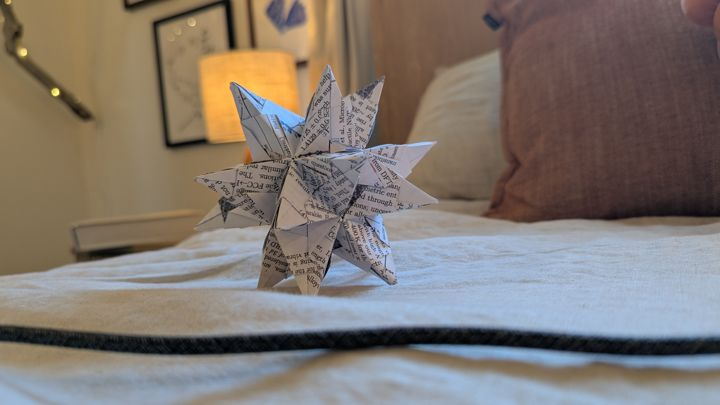
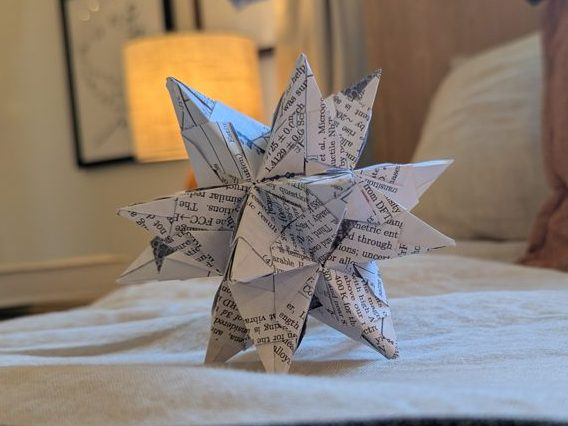
Breadcrumbs on subpages; origami gallery: tighter 2026 star crop + 2022 coffee-table photo
tools/crumbs.py writes a Home / Section / Page trail at the top of each subpage header
(plus BreadcrumbList JSON-LD) and drops the old back-link. Idempotent; a new page is
one row in PAGES. The trail is a div, not a <nav>, because site.css styles every
<nav> as the floating icon rail.

diff --git a/art.html b/art.html
@@ -16,8 +16,8 @@
 <link rel="icon" href="favicon.ico" sizes="any">
 <link rel="icon" href="favicon-32.png" type="image/png">
 <link rel="apple-touch-icon" href="apple-touch-icon.png">
-<link rel="stylesheet" href="assets/css/site.css?v=20261118142144">
-</head>
+<link rel="stylesheet" href="assets/css/site.css?v=20261118204126">
+<!-- crumbs-ld --><script type="application/ld+json">{"@context": "https://schema.org", "@type": "BreadcrumbList", "itemListElement": [{"@type": "ListItem", "position": 1, "name": "Home", "item": "https://kyle-hunady.github.io/"}, {"@type": "ListItem", "position": 2, "name": "Projects", "item": "https://kyle-hunady.github.io/index.html#projects"}, {"@type": "ListItem", "position": 3, "name": "Art and making", "item": "https://kyle-hunady.github.io/art.html"}]}</script><!-- /crumbs-ld --></head>
 <body>
 <a class="skip" href="#main">Skip to content</a>
 <svg width="0" height="0" style="position:absolute" aria-hidden="true">
@@ -49,6 +49,7 @@
 
 <header class="page__head">
   <div class="container header__container">
+    <!-- crumbs --><div class="crumbs" role="navigation" aria-label="Breadcrumb"><ol><li><a href="index.html">Home</a></li><li><a href="index.html#projects">Projects</a></li><li aria-current="page">Art and making</li></ol></div><!-- /crumbs -->
     <h1>Art and making</h1>
     <p class="header__line">A few things I’ve made, from lamps to cyanotype prints. Select a photo to enlarge it.</p>
   </div>
@@ -56,7 +57,6 @@
 
 <main id="main" class="page">
   <div class="container">
-    <a href="index.html#projects" class="back-link"><svg><use href="#i-arrow-left"/></svg>All projects</a>
 <h2 class="ilove" id="lamps">I LOVE LAMPS</h2>
 <div class="gallery gallery--wonky">
   <figure><button type="button" data-full="assets/img/gallery/art/resin-lamp.jpg" data-caption="2021"><img src="assets/img/gallery/art/resin-lamp-t.jpg" alt="Fairy lights glowing inside a clear resin and wood lamp." width="720" height="540" loading="lazy" decoding="async"></button><figcaption><span class="placard">2021</span></figcaption></figure>
@@ -87,7 +87,8 @@
 </div>
 <h2 class="ilove" id="origami">I LOVE MODULAR ORIGAMI</h2>
 <div class="gallery gallery--wonky">
-  <figure><button type="button" data-full="assets/img/gallery/art/star-on-bed.jpg" data-caption="2026"><img src="assets/img/gallery/art/star-on-bed-t.jpg" alt="A 20-point origami star made from sheets of a printed draft." width="720" height="405" loading="lazy" decoding="async"></button><figcaption><span class="placard">2026</span></figcaption></figure>
+  <figure><button type="button" data-full="assets/img/gallery/art/star-on-bed.jpg?v=2" data-caption="2026"><img src="assets/img/gallery/art/star-on-bed-t.jpg?v=2" alt="A 20-point origami star made from sheets of a printed draft." width="568" height="426" loading="lazy" decoding="async"></button><figcaption><span class="placard">2026</span></figcaption></figure>
+  <figure><button type="button" data-full="assets/img/gallery/art/origami-table.jpg" data-caption="2022"><img src="assets/img/gallery/art/origami-table-t.jpg" alt="Three modular origami pieces on a glass coffee table: a large brown and white star, a gold faceted polyhedron and a small gold star of interlocking frames." width="720" height="540" loading="lazy" decoding="async"></button><figcaption><span class="placard">2022</span></figcaption></figure>
   <figure><button type="button" data-full="assets/img/gallery/art/kusudama.jpg" data-caption="2019"><img src="assets/img/gallery/art/kusudama-t.jpg" alt="A blue, orange and red modular origami ball with curled petals." width="720" height="540" loading="lazy" decoding="async"></button><figcaption><span class="placard">2019</span></figcaption></figure>
   <figure><button type="button" data-full="assets/img/gallery/art/paper-stars.jpg" data-caption="2017"><img src="assets/img/gallery/art/paper-stars-t.jpg" alt="Several modular origami stars on a teal background." width="540" height="720" loading="lazy" decoding="async"></button><figcaption><span class="placard">2017</span></figcaption></figure>
 </div>

diff --git a/montecarlo.html b/montecarlo.html
@@ -18,9 +18,9 @@
 <link rel="apple-touch-icon" href="apple-touch-icon.png">
 <link rel="preconnect" href="https://fonts.googleapis.com">
 <link rel="preconnect" href="https://fonts.gstatic.com" crossorigin>
-<link rel="stylesheet" href="assets/css/site.css?v=20261118141140">
+<link rel="stylesheet" href="assets/css/site.css?v=20261118204126">
 <meta name="report-waive" content="M1: section I animates the spectrum building up on a timer-driven canvas, which the audit does not detect, and the photon paths are 3-D rays the reader can turn; S1: section II draws its generic head with the rays at both knob values before any number, as a side view because the head is generic, and the real heads are drawn in 3-D with their collimators and rays in sections III and V; H1: a public page on the personal site, not a research report, so it is linked from the site's project card">
-</head>
+<!-- crumbs-ld --><script type="application/ld+json">{"@context": "https://schema.org", "@type": "BreadcrumbList", "itemListElement": [{"@type": "ListItem", "position": 1, "name": "Home", "item": "https://kyle-hunady.github.io/"}, {"@type": "ListItem", "position": 2, "name": "Projects", "item": "https://kyle-hunady.github.io/index.html#projects"}, {"@type": "ListItem", "position": 3, "name": "Spectrometer modeling", "item": "https://kyle-hunady.github.io/montecarlo.html"}]}</script><!-- /crumbs-ld --></head>
 <body>
 <a class="skip" href="#main">Skip to content</a>
 <svg width="0" height="0" style="position:absolute" aria-hidden="true">
@@ -52,6 +52,7 @@
 
 <header class="page__head">
   <div class="container header__container">
+    <!-- crumbs --><div class="crumbs" role="navigation" aria-label="Breadcrumb"><ol><li><a href="index.html">Home</a></li><li><a href="index.html#projects">Projects</a></li><li aria-current="page">Spectrometer modeling</li></ol></div><!-- /crumbs -->
     <p class="header__eyebrow">Instrument modeling · Caltech and JPL</p>
     <h1>Modeling a Mössbauer spectrometer</h1>
     <p class="header__line">We’re building a small spectrometer to identify iron minerals on other planets. I used a Monte Carlo model to find out how the layout of the source, collimator and detector affects how fast the instrument can measure a rock and how sharp its spectrum will be.</p>
@@ -60,7 +61,6 @@
 
 <main id="main" class="page">
   <div class="container">
-    <a href="index.html#projects" class="back-link"><svg><use href="#i-arrow-left"/></svg>All projects</a>
 
     <div class="callout abstract"><div>I wrote the photon simulation for a backscatter Mössbauer spectrometer that JPL and Caltech developed through NASA’s PICASSO program (Planetary Instrument Concepts for the Advancement of Solar System Observations). The model traces photons individually through each design, recording about 30,000 that reach the detector. The workflow uses published mineral spectra and dimensions I measured from a photo of the instrument. The angles of the detected photons tell us how much each design broadens the lines in a spectrum. The four Mars spectra come from NASA’s archive. The other spectra shown here are simulated.</div></div>
 

diff --git a/entropy.html b/entropy.html
@@ -18,8 +18,8 @@
 <link rel="apple-touch-icon" href="apple-touch-icon.png">
 <link rel="preconnect" href="https://fonts.googleapis.com">
 <link rel="preconnect" href="https://fonts.gstatic.com" crossorigin>
-<link rel="stylesheet" href="assets/css/site.css?v=20261118162051">
-</head>
+<link rel="stylesheet" href="assets/css/site.css?v=20261118204126">
+<!-- crumbs-ld --><script type="application/ld+json">{"@context": "https://schema.org", "@type": "BreadcrumbList", "itemListElement": [{"@type": "ListItem", "position": 1, "name": "Home", "item": "https://kyle-hunady.github.io/"}, {"@type": "ListItem", "position": 2, "name": "Research", "item": "https://kyle-hunady.github.io/index.html#research"}, {"@type": "ListItem", "position": 3, "name": "Alloy entropy", "item": "https://kyle-hunady.github.io/entropy.html"}]}</script><!-- /crumbs-ld --></head>
 <body>
 <a class="skip" href="#main">Skip to content</a>
 <svg width="0" height="0" style="position:absolute" aria-hidden="true">
@@ -51,6 +51,7 @@
 
 <header class="page__head">
   <div class="container header__container">
+    <!-- crumbs --><div class="crumbs" role="navigation" aria-label="Breadcrumb"><ol><li><a href="index.html">Home</a></li><li><a href="index.html#research">Research</a></li><li aria-current="page">Alloy entropy</li></ol></div><!-- /crumbs -->
     <p class="header__eyebrow">Alloy thermodynamics · Caltech</p>
     <h1>The entropy of high-entropy alloys</h1>
     <p class="header__line">I measured the heat capacity of eight alloys down to 2 K to find out where their entropy comes from and how aluminum changes it.</p>
@@ -59,7 +60,6 @@
 
 <main id="main" class="page">
   <div class="container">
-    <a href="index.html#research" class="back-link"><svg><use href="#i-arrow-left"/></svg>Research</a>
 
     <p class="lede">High-entropy alloys get their name from the many ways different elements can share a crystal lattice. Does that mixing explain how stable the alloys are? I measured the entropy from heat capacity and used diffraction and microscopy to estimate how much came from mixing. In these alloys, atomic vibrations accounted for most of the entropy, and adding aluminum lowered the total.</p>
     <p>I studied three alloy families based on CoCrFeNi, CoCrFeMnNi and NbTa<sub>0.5</sub>TiZr, with and without added aluminum. I published the study with Ihab Elmasri and Brent Fultz in <a href="https://doi.org/10.1016/j.actamat.2026.122808" target="_blank" rel="noreferrer"><i>Acta Materialia</i> (2026)</a>.</p>

diff --git a/battery.html b/battery.html
@@ -16,7 +16,7 @@
 <link rel="icon" href="favicon.ico" sizes="any">
 <link rel="icon" href="favicon-32.png" type="image/png">
 <link rel="apple-touch-icon" href="apple-touch-icon.png">
-<link rel="stylesheet" href="assets/css/site.css?v=20261118141140">
+<link rel="stylesheet" href="assets/css/site.css?v=20261118204126">
 <style>
   .fig + p, p + .fig, .fig + h3 { margin-top: 1.4rem; }
   .fig--light img { border-radius: .3rem; }
@@ -28,7 +28,7 @@
   .elements b { display: block; color: var(--accent); font-weight: 500; margin-bottom: .2rem; }
   @media (max-width: 640px) { .elements { grid-template-columns: 1fr; } }
 </style>
-</head>
+<!-- crumbs-ld --><script type="application/ld+json">{"@context": "https://schema.org", "@type": "BreadcrumbList", "itemListElement": [{"@type": "ListItem", "position": 1, "name": "Home", "item": "https://kyle-hunady.github.io/"}, {"@type": "ListItem", "position": 2, "name": "Projects", "item": "https://kyle-hunady.github.io/index.html#projects"}, {"@type": "ListItem", "position": 3, "name": "Battery materials", "item": "https://kyle-hunady.github.io/battery.html"}]}</script><!-- /crumbs-ld --></head>
 <body>
 <a class="skip" href="#main">Skip to content</a>
 <svg width="0" height="0" style="position:absolute" aria-hidden="true">
@@ -52,6 +52,7 @@
 
 <header class="page__head">
   <div class="container header__container">
+    <!-- crumbs --><div class="crumbs" role="navigation" aria-label="Breadcrumb"><ol><li><a href="index.html">Home</a></li><li><a href="index.html#projects">Projects</a></li><li aria-current="page">Battery materials</li></ol></div><!-- /crumbs -->
     <p class="header__eyebrow">Battery materials · Georgia Tech, 2019 to 2022</p>
     <h1>Solid electrolytes and Li-ion cathodes</h1>
     <p class="header__line">As an undergraduate in Gleb Yushin’s lab, I made a solid electrolyte from two inexpensive salts and tested whether foaming a thick cathode could improve its performance at high discharge rates.</p>
@@ -60,7 +61,6 @@
 
 <main id="main" class="page">
   <div class="container">
-    <a href="index.html#projects" class="back-link"><svg><use href="#i-arrow-left"/></svg>All projects</a>
 
     <ol class="parts">
       <li><a href="#sse"><b>I. Solid electrolyte</b><span>Making Li<sub>2</sub>OHCl from two salts</span></a></li>

diff --git a/automation.html b/automation.html
@@ -16,8 +16,8 @@
 <link rel="icon" href="favicon.ico" sizes="any">
 <link rel="icon" href="favicon-32.png" type="image/png">
 <link rel="apple-touch-icon" href="apple-touch-icon.png">
-<link rel="stylesheet" href="assets/css/site.css?v=20261118141140">
-</head>
+<link rel="stylesheet" href="assets/css/site.css?v=20261118204126">
+<!-- crumbs-ld --><script type="application/ld+json">{"@context": "https://schema.org", "@type": "BreadcrumbList", "itemListElement": [{"@type": "ListItem", "position": 1, "name": "Home", "item": "https://kyle-hunady.github.io/"}, {"@type": "ListItem", "position": 2, "name": "Projects", "item": "https://kyle-hunady.github.io/index.html#projects"}, {"@type": "ListItem", "position": 3, "name": "Literature workflow", "item": "https://kyle-hunady.github.io/automation.html"}]}</script><!-- /crumbs-ld --></head>
 <body>
 <a class="skip" href="#main">Skip to content</a>
 <svg width="0" height="0" style="position:absolute" aria-hidden="true">
@@ -49,6 +49,7 @@
 
 <header class="page__head">
   <div class="container header__container">
+    <!-- crumbs --><div class="crumbs" role="navigation" aria-label="Breadcrumb"><ol><li><a href="index.html">Home</a></li><li><a href="index.html#projects">Projects</a></li><li aria-current="page">Literature workflow</li></ol></div><!-- /crumbs -->
     <p class="header__eyebrow">Research tools</p>
     <h1>A literature workflow with Claude Code</h1>
     <p class="header__line">I tell Claude what I'm looking for. It searches for papers, downloads the ones it can access, and drafts a note on what I can use from each.</p>
@@ -57,7 +58,6 @@
 
 <main id="main" class="page">
   <div class="container">
-    <a href="index.html#projects" class="back-link"><svg><use href="#i-arrow-left"/></svg>All projects</a>
 
     <p>I use a custom <code>/lit-fetch</code> command in Claude Code. Scripts on my computer download and check the papers, and I keep one library across my projects.</p>
     <p>I tried this on a question from my <a href="sinrg.html">spectrometer</a> work. The source in a Mössbauer spectrometer has to move at a precisely controlled velocity. Our group drives it with a piezo stack (Guzman et al., 2023). I wanted to see which methods from atomic force microscopy and other fields might help us control that motion.</p>

diff --git a/bc.html b/bc.html
@@ -16,8 +16,8 @@
 <link rel="icon" href="favicon.ico" sizes="any">
 <link rel="icon" href="favicon-32.png" type="image/png">
 <link rel="apple-touch-icon" href="apple-touch-icon.png">
-<link rel="stylesheet" href="assets/css/site.css?v=20261118141140">
-</head>
+<link rel="stylesheet" href="assets/css/site.css?v=20261118204126">
+<!-- crumbs-ld --><script type="application/ld+json">{"@context": "https://schema.org", "@type": "BreadcrumbList", "itemListElement": [{"@type": "ListItem", "position": 1, "name": "Home", "item": "https://kyle-hunady.github.io/"}, {"@type": "ListItem", "position": 2, "name": "Projects", "item": "https://kyle-hunady.github.io/index.html#projects"}, {"@type": "ListItem", "position": 3, "name": "Early coding", "item": "https://kyle-hunady.github.io/bc.html"}]}</script><!-- /crumbs-ld --></head>
 <body>
 <a class="skip" href="#main">Skip to content</a>
 <svg width="0" height="0" style="position:absolute" aria-hidden="true">
@@ -49,6 +49,7 @@
 
 <header class="page__head">
   <div class="container header__container">
+    <!-- crumbs --><div class="crumbs" role="navigation" aria-label="Breadcrumb"><ol><li><a href="index.html">Home</a></li><li><a href="index.html#projects">Projects</a></li><li aria-current="page">Early coding</li></ol></div><!-- /crumbs -->
     <p class="header__eyebrow">2020–2022</p>
     <h1>Early coding projects</h1>
     <p class="header__line">A few things I built for drawing, taking photos and playing Minecraft. My newer projects include <a href="automation.html">tools for keeping up with research papers</a>.</p>
@@ -57,7 +58,6 @@
 
 <main id="main" class="page">
   <div class="container">
-    <a href="index.html#projects" class="back-link"><svg><use href="#i-arrow-left"/></svg>All projects</a>
     <figure class="fig" style="max-width:20rem;margin:0 0 1.2rem">
       <img src="assets/img/proj-bc.png" alt="An Arduino loop drawn with a mouse in Microsoft Paint" width="1038" height="649" loading="lazy" style="border-radius:.4rem">
       <figcaption>An Arduino loop I drew with a mouse in Microsoft Paint.</figcaption>

diff --git a/latte.html b/latte.html
@@ -14,8 +14,8 @@
 <link rel="icon" href="favicon.ico" sizes="any">
 <link rel="icon" href="favicon-32.png" type="image/png">
 <link rel="apple-touch-icon" href="apple-touch-icon.png">
-<link rel="stylesheet" href="assets/css/site.css?v=20261118142144">
-</head>
+<link rel="stylesheet" href="assets/css/site.css?v=20261118204126">
+<!-- crumbs-ld --><script type="application/ld+json">{"@context": "https://schema.org", "@type": "BreadcrumbList", "itemListElement": [{"@type": "ListItem", "position": 1, "name": "Home", "item": "https://kyle-hunady.github.io/"}, {"@type": "ListItem", "position": 2, "name": "Latte log", "item": "https://kyle-hunady.github.io/latte.html"}]}</script><!-- /crumbs-ld --></head>
 <body class="cafe">
 
 <svg width="0" height="0" style="position:absolute" aria-hidden="true">
@@ -44,13 +44,14 @@
   <a href="index.html#contact" aria-label="Contact" title="Contact"><svg><use href="#i-mail"/></svg></a>
 </nav> <header class="page__head">
   <div class="container header__container">
+    <!-- crumbs --><div class="crumbs" role="navigation" aria-label="Breadcrumb"><ol><li><a href="index.html">Home</a></li><li aria-current="page">Latte log</li></ol></div><!-- /crumbs -->
     <div class="cafe-cup" aria-hidden="true"><svg><use href="#i-cup"/></svg></div>
     <h1>Welcome to the latte log</h1>
   </div>
 </header>
 
 <section id="gallery">
-  <div class="container"><a href="index.html" class="back-link"><svg><use href="#i-arrow-left"/></svg>Home</a> <div class="latte-top"> <p class="latte-badge" id="latte-badge"></p></div>
+  <div class="container"><div class="latte-top"> <p class="latte-badge" id="latte-badge"></p></div>
     <p class="latte-badge" id="cafe-months-label">Photos by month</p>
     <div class="cafe-months" id="cafe-months" role="img" aria-label="Latte photos by month"></div>
 

diff --git a/assets/css/site.css b/assets/css/site.css
@@ -414,6 +414,16 @@ button.btn { font-size: 0.8rem; }
 .back-link:hover { color: var(--accent); }
 .back-link svg { width: 0.85rem; height: 0.85rem; }
 
+/* Breadcrumb trail, first thing in a subpage header. Written by tools/crumbs.py. */
+.page__head:has(.crumbs) { padding-top: 1.8rem; }
+.crumbs { text-align: left; margin-bottom: 2.6rem; }
+.crumbs ol { list-style: none; display: flex; flex-wrap: wrap; gap: 0.15rem 0.5rem; margin: 0; padding: 0;
+  font-family: var(--mono); font-size: 0.74rem; color: var(--faint); }
+.crumbs li + li::before { content: "/"; margin-right: 0.5rem; color: var(--faint); opacity: 0.6; }
+.crumbs a { color: var(--muted); }
+.crumbs a:hover { color: var(--accent); }
+.crumbs [aria-current] { color: var(--faint); }
+
 .latte-top {
   display: flex;
   align-items: center;

diff --git a/tools/crumbs.py b/tools/crumbs.py
@@ -1,0 +1,89 @@
+"""Write the breadcrumb trail at the top of every subpage.
+
+    python tools/crumbs.py            # all pages in PAGES
+    python tools/crumbs.py sinrg.html # just one
+
+The trail (a div, not a <nav>: site.css styles every <nav> as the floating icon rail)
+goes first inside the page header (`<div class="container header__container">`)
+and replaces the old "All projects" back-link in <main>, which said the same thing lower
+down. A BreadcrumbList JSON-LD block goes in <head> so search results show the path.
+Both live between marker comments, so re-running the script rewrites them in place.
+A new subpage = one row in PAGES, then run this.
+"""
+import json
+import re
+import sys
+from pathlib import Path
+
+ROOT = Path(__file__).resolve().parents[1]
+SITE = "https://kyle-hunady.github.io/"
+
+RESEARCH = ("Research", "index.html#research")
+PROJECTS = ("Projects", "index.html#projects")
+
+# page -> (section or None, short label for this page)
+PAGES = {
+    "entropy.html": (RESEARCH, "Alloy entropy"),
+    "sinrg.html": (RESEARCH, "Reading rocks with gamma rays"),
+    "montecarlo.html": (PROJECTS, "Spectrometer modeling"),
+    "battery.html": (PROJECTS, "Battery materials"),
+    "automation.html": (PROJECTS, "Literature workflow"),
+    "bc.html": (PROJECTS, "Early coding"),
+    "art.html": (PROJECTS, "Art and making"),
+    "latte.html": (None, "Latte log"),
+}
+
+HTML_OPEN, HTML_CLOSE = "<!-- crumbs -->", "<!-- /crumbs -->"
+LD_OPEN, LD_CLOSE = "<!-- crumbs-ld -->", "<!-- /crumbs-ld -->"
+HEADER = '<div class="container header__container">'
+BACK_LINK = re.compile(r'[ \t]*<a href="index\.html[^"]*" class="back-link">.*?</a>[ \t]*\n?')
+
+
+def trail(page, section, label):
+    return [("Home", "index.html")] + ([section] if section else []) + [(label, page)]
+
+
+def crumbs_html(steps):
+    items = [f'<li><a href="{href}">{name}</a></li>' for name, href in steps[:-1]]
+    items.append(f'<li aria-current="page">{steps[-1][0]}</li>')
+    return f'{HTML_OPEN}<div class="crumbs" role="navigation" aria-label="Breadcrumb"><ol>{"".join(items)}</ol></div>{HTML_CLOSE}'
+
+
+def crumbs_ld(steps):
+    data = {
+        "@context": "https://schema.org",
+        "@type": "BreadcrumbList",
+        "itemListElement": [
+            {"@type": "ListItem", "position": i, "name": name,
+             "item": SITE + ("" if href == "index.html" else href)}
+            for i, (name, href) in enumerate(steps, 1)
+        ],
+    }
+    return f'{LD_OPEN}<script type="application/ld+json">{json.dumps(data, ensure_ascii=False)}</script>{LD_CLOSE}'
+
+
+def strip_block(text, open_, close):
+    # Take the block's own line with it, so a re-run never stacks indentation.
+    return re.sub(r"\n[ \t]*" + re.escape(open_) + ".*?" + re.escape(close), "", text, flags=re.S)
+
+
+def apply(page):
+    section, label = PAGES[page]
+    path = ROOT / page
+    text = path.read_text(encoding="utf-8")
+    text = strip_block(strip_block(text, HTML_OPEN, HTML_CLOSE), LD_OPEN, LD_CLOSE)
+    if HEADER not in text:
+        raise SystemExit(f"{page}: no page header to put the trail in")
+    steps = trail(page, section, label)
+    text = text.replace(HEADER, f"{HEADER}\n    {crumbs_html(steps)}", 1)
+    text = text.replace("</head>", f"\n{crumbs_ld(steps)}</head>", 1)
+    # The back-link sat at the top of <main> (or of #gallery on latte); the trail replaces it.
+    # latte.html keeps its badge row, so drop only the anchor there.
+    text, n = BACK_LINK.subn("", text, count=1)
+    path.write_text(text, encoding="utf-8", newline="")
+    print(f"{page:18s} {' / '.join(s[0] for s in steps)}{'' if n else '   (no back-link found)'}")
+
+
+if __name__ == "__main__":
+    for page in sys.argv[1:] or PAGES:
+        apply(page)
